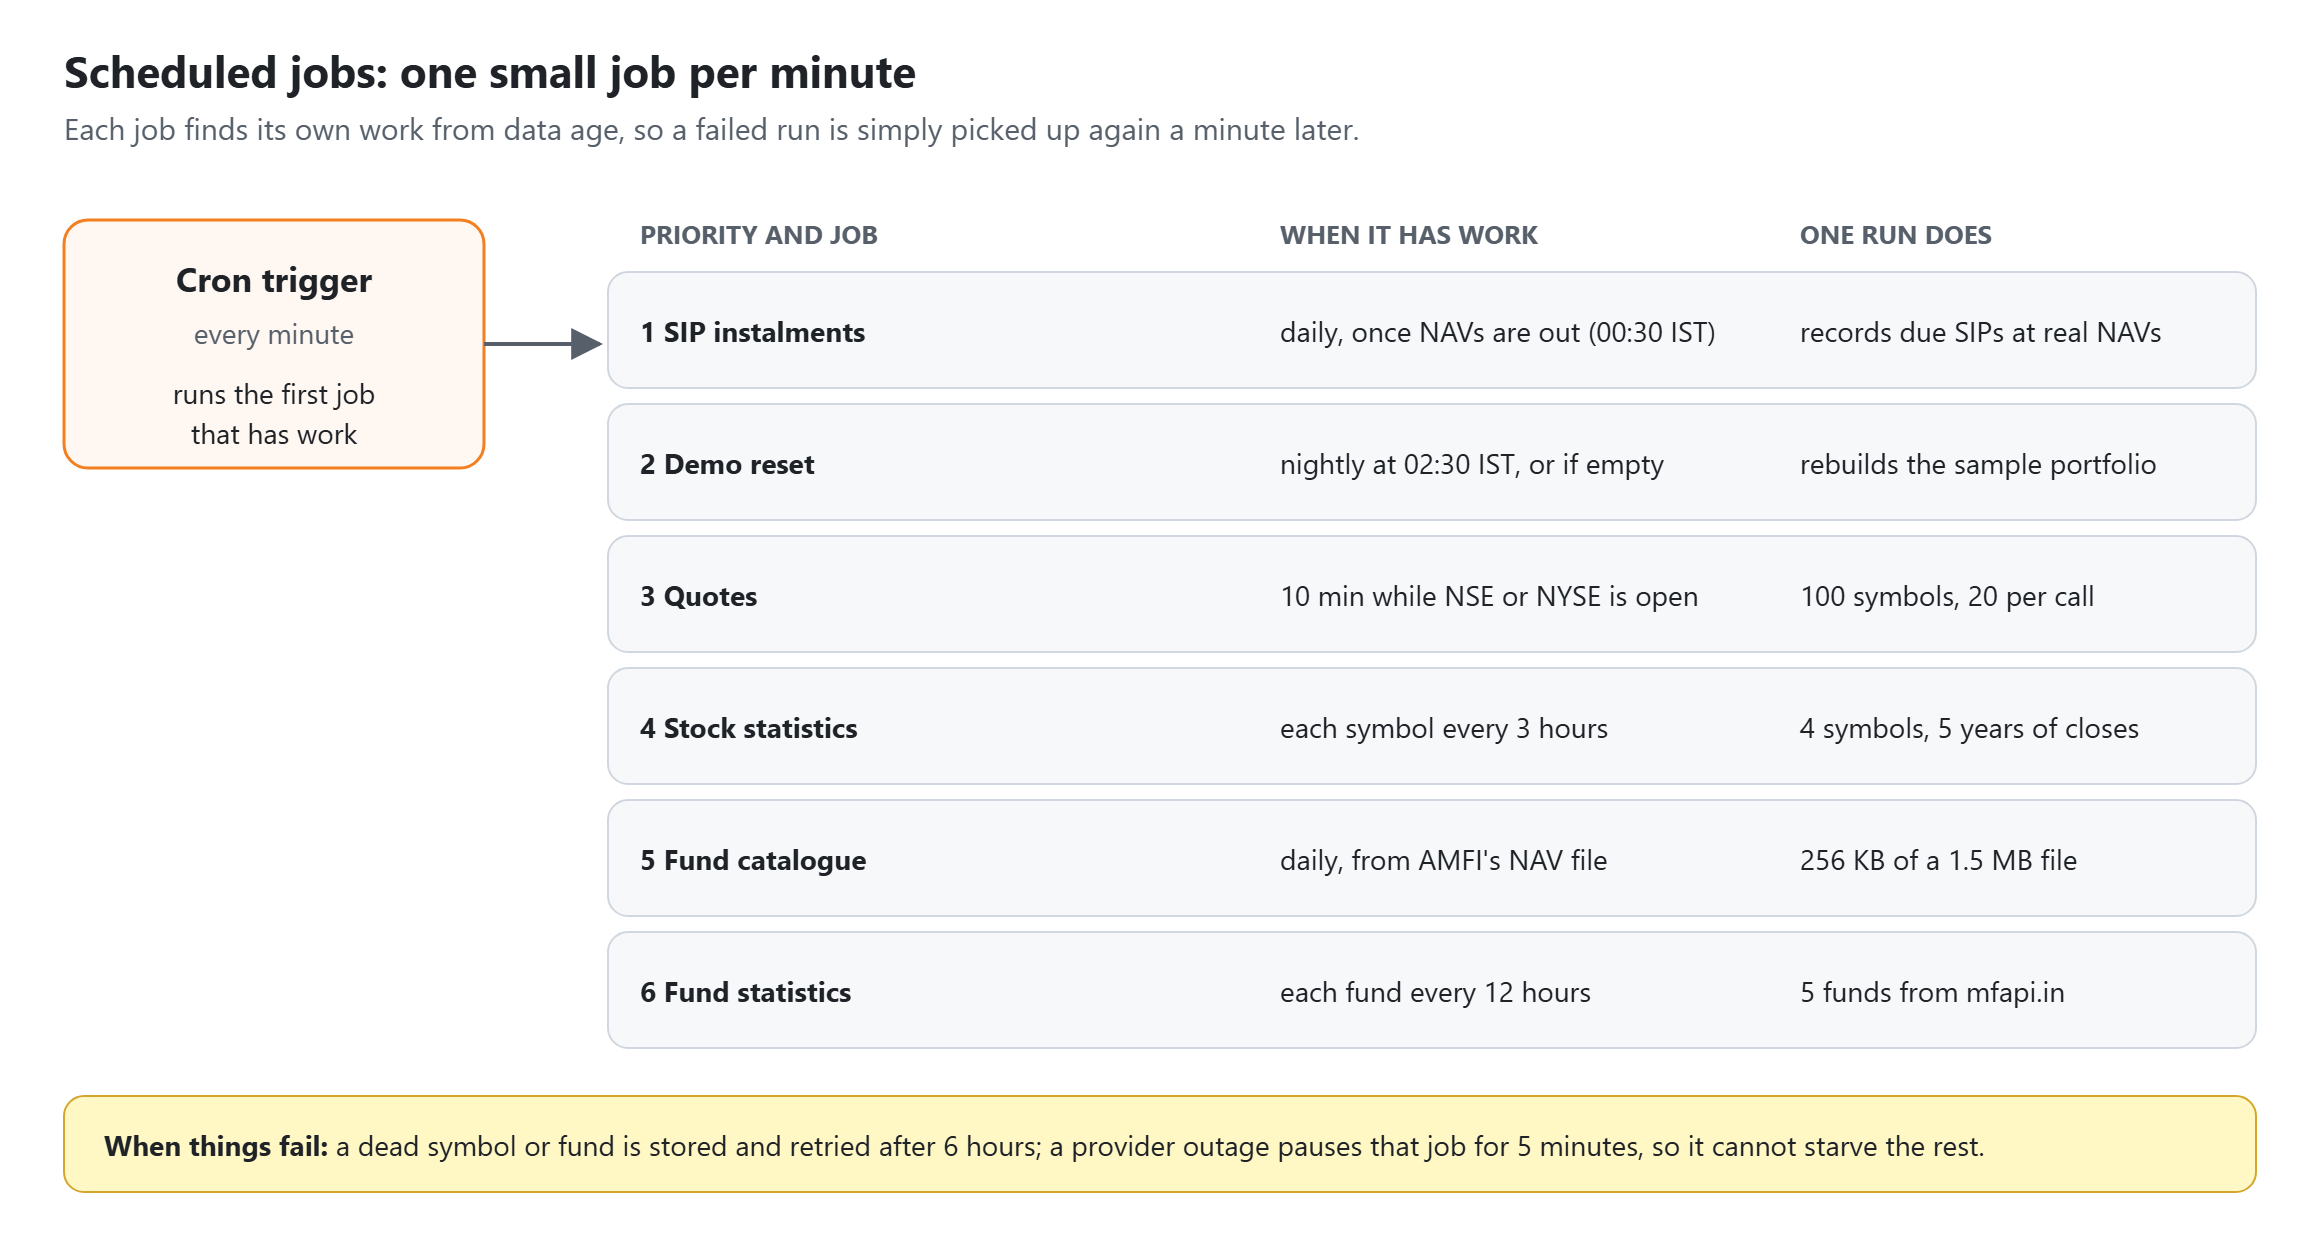
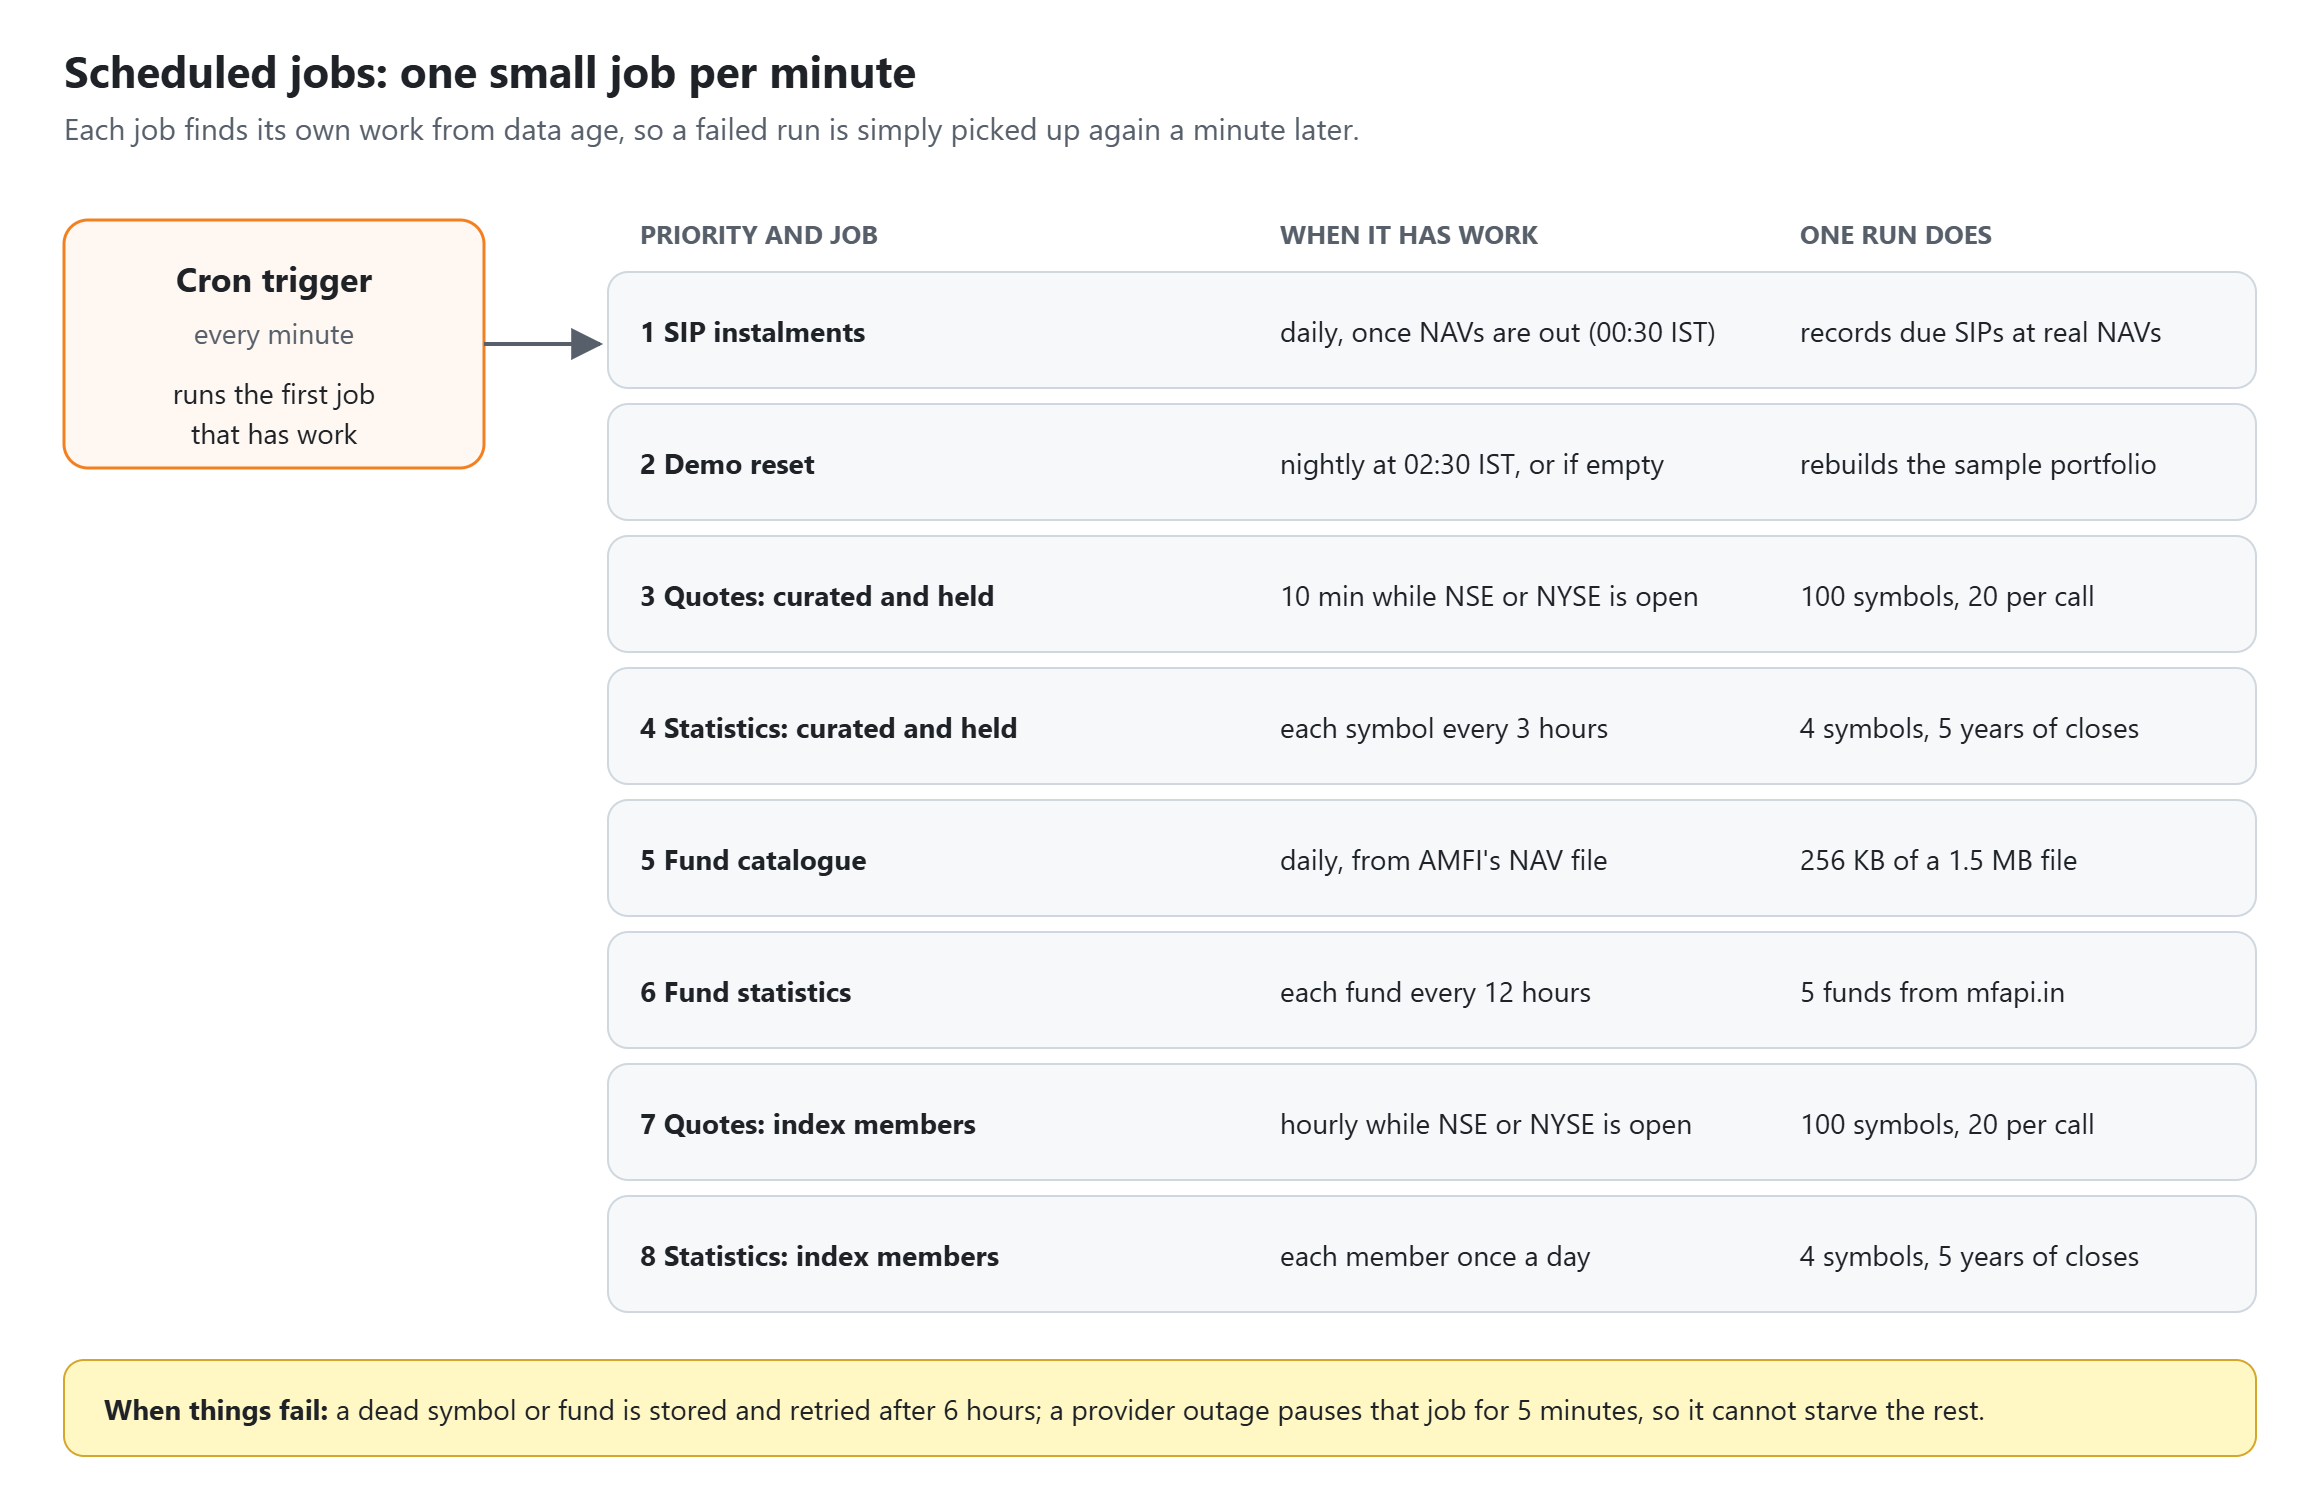
document the index lists and the slower refresh schedule

diff --git a/docs/ARCHITECTURE.md b/docs/ARCHITECTURE.md
@@ -271,13 +271,13 @@ Rules that keep comparisons honest:
 - Statistics are `float64`: they are ratios and estimates, not money. Prices and NAVs remain decimal strings.
 - **No price predictions.** Historical statistics are descriptive; forecasting stock prices gives false precision and, for a regulated broker, a compliance problem.
 
-**Universes** (`internal/universe`): curated India large and mid caps, ~13 sector lists, US large caps, India and US ETFs, and indices. Lists are hand-maintained (official index memberships are not available free) and every symbol was verified against live data; names come from the provider, so only symbols and sectors are maintained. Members that later fail (renames, demergers such as Tata Motors) appear in a screen's `unavailable` map instead of breaking it. `LIQUIDBEES` is deliberately excluded: it pays returns as units while its price stays flat.
+**Universes** (`internal/universe`): curated India large and mid caps, US large caps, India and US ETFs and indices (141 symbols), plus the full Nifty 500 and S&P 500, and 16 sector lists drawn from both. The curated lists are hand-maintained and every symbol was verified against live data. Index memberships are not available from a free API, so `scripts/index-lists.mjs` generates them for both runtimes (`indexes.ts`, `indexes_gen.go`) from NSE's and the S&P list's published constituent files; refreshing after a rebalance means downloading both files and running it again. Where a company is in both, its curated sector wins. Names come from the provider, so only symbols and sectors are kept. Members that later fail (renames, demergers such as Tata Motors) appear in a screen's `unavailable` map instead of breaking it. `LIQUIDBEES` is deliberately excluded: it pays returns as units while its price stays flat.
 
 **Fund categories** come from AMFI's official daily NAV file, which groups every scheme under its SEBI category (AMFI uses two spellings for each category, so matching is by pattern). The screener keeps only **Direct, Growth** plans with a NAV in the last week, then computes metrics from each scheme's full NAV history (mfapi.in).
 
 **Screening** fans out per member with bounded concurrency (8 for stocks, 4 for funds, to be gentle with a community API), ranks by the requested metric in its natural "best" direction (volatility ascending, everything else descending), and supports `order=worst` for losers. Today's move comes from the live quote cache, not the hourly statistics.
 
-**Background warming.** A cold category screen would take 10 to 50 s of rate-limited upstream calls. Two warm jobs refresh every curated symbol (every 45 min, inside the 1 h stats TTL) and every fund category (every 6 h, inside the 12 h TTL) using `Cache.Refresh`, which renews entries *before* they expire. Measured locally: 141 symbols in ~27 s and 379 fund schemes in ~50 s, so user-facing screens are served from memory. Only computed metrics are cached long-term (hundreds of bytes each), not the ~100 KB raw series.
+**Background warming.** A cold category screen would take 10 to 50 s of rate-limited upstream calls. Warm jobs refresh every curated symbol (every 45 min, inside the 1 h stats TTL) and every fund category (every 6 h, inside the 12 h TTL) using `Cache.Refresh`, which renews entries *before* they expire. The 892 index-only members are warmed once a day, inside the stats cache's 48 h stale window, starting 10 minutes after launch so restarts in watch mode do not each send a thousand symbols to Yahoo. Measured locally: 141 symbols in ~27 s and 379 fund schemes in ~50 s, so user-facing screens are served from memory. Only computed metrics are cached long-term (hundreds of bytes each), not the ~100 KB raw series.
 
 ### 4.8 Testing strategy
 
@@ -314,7 +314,7 @@ Pages serves the site and the API; only `/api/*` runs code, so page loads are st
 
 **Requests only read.** `symbol_data` and `fund_data` hold each instrument's latest statistics and quote; a screen is one `SELECT` and a sort. A request fetches inline only what is missing (a newly starred symbol, a fund nobody has held), capped so it stays inside the budget; anything beyond the cap is queued for the cron job and reported as "still loading". Searches, chart history, FX and latest NAVs go through `market_cache`, a stale-while-revalidate cache in Postgres: a stale entry is served at once and refreshed after the response via `waitUntil`, and served on provider errors.
 
-**One cron trigger, many small jobs.** Every minute, the scheduler runs the single most urgent job, chosen from data age: SIP instalments (daily, after NAVs publish), quotes (every 10 min while NSE or NYSE is open, hourly otherwise), stock statistics (4 symbols per run, refreshed every 3 h), the AMFI fund catalogue (daily, 256 KB per run), fund statistics (5 per run, every 12 h). Failures for a specific instrument (delisted, a segregated fund with zero NAV) are stored and retried after 6 h; a provider outage backs the job off for 5 minutes so it cannot starve the others.
+**One cron trigger, many small jobs.** Every minute, the scheduler runs the single most urgent job, chosen from data age: SIP instalments (daily, after NAVs publish), quotes (every 10 min while NSE or NYSE is open, hourly otherwise), stock statistics (4 symbols per run, refreshed every 3 h), the AMFI fund catalogue (daily, 256 KB per run), fund statistics (5 per run, every 12 h), and last the Nifty 500 and S&P 500 members (quotes hourly while a market is open, statistics daily). Only the curated lists and symbols someone holds, has synced or has starred are on the 3 hour schedule: refreshing about a thousand index members that often would need more runs than an hour has, and their one-year-and-longer statistics barely move within a day. Putting them last means their first load (several hours) never holds up the jobs above. Failures for a specific instrument (delisted, a segregated fund with zero NAV) are stored and retried after 6 h; a provider outage backs the job off for 5 minutes so it cannot starve the others.
 
 **CPU, measured in production.** My first estimate (~1.6 ms per symbol) came from benchmarks that ran each function many times, so V8 had already optimised them. A once-a-minute job doesn't run that way: it usually lands in a cold isolate, where code runs for the first time. `wrangler tail` showed the real cost:
 

diff --git a/README.md b/README.md
@@ -15,7 +15,7 @@ Folio values NSE and US stocks, ETFs and Indian mutual funds live, converts betw
 | | |
 | --- | --- |
 | ![Goals and SIPs](docs/images/goals.png) | ![Discover: ranked stocks](docs/images/discover.png) |
-| **Goals and SIPs.** Each goal shows progress from linked holdings and SIPs, and the monthly amount needed at an assumed return. SIPs started in the past are backfilled at each instalment date's real NAV. | **Discover.** 141 curated stocks, ETFs and indices in 19 lists (India and US, by size and sector), ranked by return over any period, volatility, worst drop, return per unit of risk, or up months. |
+| **Goals and SIPs.** Each goal shows progress from linked holdings and SIPs, and the monthly amount needed at an assumed return. SIPs started in the past are backfilled at each instalment date's real NAV. | **Discover.** 1,033 stocks, ETFs and indices in 24 lists: the whole Nifty 500 and S&P 500 alongside curated large and mid caps, ETFs and indices, by size and sector, ranked by return over any period, volatility, worst drop, return per unit of risk, or up months. |
 | ![Stock page](docs/images/stock.png) | ![Mutual funds](docs/images/funds.png) |
 | **Stock pages.** Price history, returns from one week to five years (3y and 5y annualized), risk statistics with plain-language explanations, and your own position. | **Mutual funds.** About 380 Direct Growth schemes in 11 SEBI categories from AMFI's official NAV file, ranked the same way. |
 
@@ -35,7 +35,7 @@ The app runs in two shapes that share all business logic (`packages/core`).
 
 Workers get 10 ms of CPU per invocation and keep no memory between requests, so the Go gateway's caches and background warmers became Postgres tables and one cron trigger that runs a single small job each minute:
 
-![The six scheduled jobs in priority order, with when each has work and what one run does](docs/images/cron-jobs.png)
+![The eight scheduled jobs in priority order, with when each has work and what one run does](docs/images/cron-jobs.png)
 
 Every decision, the alternatives that were rejected, and measured numbers are in [`docs/ARCHITECTURE.md`](docs/ARCHITECTURE.md). Deploying it yourself: [`docs/DEPLOY.md`](docs/DEPLOY.md). Performance and quality measurements: [`docs/KPIS.md`](docs/KPIS.md).
 

diff --git a/docs/KPIS.md b/docs/KPIS.md
@@ -17,7 +17,7 @@ Measured, not estimated. Every figure below comes from a run on 2026-10-20 and c
 | TypeScript tests | **95** (54 shared, 41 API), including **26 against a real Postgres** |
 | CI per PR | 2 parallel jobs, **45 s** (TypeScript) and **66 s** (Go with race detector) |
 | Gateway container image | **17.7 MB** (distroless, non-root) |
-| Market coverage | **141** stocks, ETFs and indices in **19** categories; **380** mutual funds in **11** SEBI categories |
+| Market coverage | **1,033** stocks, ETFs and indices in **24** categories (the Nifty 500 and S&P 500 plus 141 curated); **380** mutual funds in **11** SEBI categories |
 | Delivery | **15** reviewed PRs, all CI-gated |
 
 ## Performance
@@ -106,7 +106,7 @@ Bugs caught by tests before they shipped, each with a regression test:
 
 ## Resume-ready lines
 
-- Built a full-stack personal portfolio manager (React, NestJS, Go, PostgreSQL) covering 141 Indian and US stocks and ETFs and 380 mutual funds across 19 stock and 11 fund categories, with live data from 4 public sources.
+- Built a full-stack personal portfolio manager (React, NestJS, Go, PostgreSQL) covering 1,033 Indian and US stocks, ETFs and indices (the full Nifty 500 and S&P 500) and 380 mutual funds across 24 stock and 11 fund categories, with live data from 4 public sources.
 - Load-tested the Go market-data gateway, traced a 9.9 s p90 stall to rate-limited cache refreshes, and fixed it with stale-while-revalidate and cache pre-warming: throughput up ~100× (7 to 713 req/s), p99 down to 224 ms, 99.99% of 1.6M lookups served from memory.
 - Designed a ledger-based portfolio engine (FIFO lots, realized gains, XIRR validated against Excel) that rejects impossible histories on write, using per-account row locks to prevent race conditions.
 - Automated SIP tracking that backfills years of instalments at historical NAVs in under a second, idempotent through a database unique constraint.

diff --git a/docs/DEPLOY.md b/docs/DEPLOY.md
@@ -65,7 +65,7 @@ Anyone without a session browses a sample portfolio as the user `demo@folio.inva
 
 ## 6. First data
 
-From an empty database, all 141 curated symbols and the fund catalogue load within about an hour, and every fund's statistics within about two. Anything you open before then loads on demand, a few instruments per request.
+From an empty database, all 141 curated symbols and the fund catalogue load within about an hour, and every fund's statistics within about two. The 892 other Nifty 500 and S&P 500 members fill in over roughly the next 5 to 10 hours, in whatever minutes the other jobs leave free. Anything you open before then loads on demand, a few instruments per request.
 
 Watch the jobs with `npx wrangler tail folio-cron` (each run logs `{"job": ..., "refreshed": ...}`), or query `select name, report from job_state;`.
 

diff --git a/docs/diagrams/README.md b/docs/diagrams/README.md
@@ -10,4 +10,4 @@ chrome --headless=new --hide-scrollbars --force-device-scale-factor=2 \
   --screenshot=docs/images/<name>.png file:///<repo>/docs/diagrams/<name>.svg
 ```
 
-Heights: architecture-cloudflare 640, architecture-local 640, cron-jobs 620, request-flow 660, data-model 1000.
+Heights: architecture-cloudflare 640, architecture-local 640, cron-jobs 752, request-flow 660, data-model 1000.
